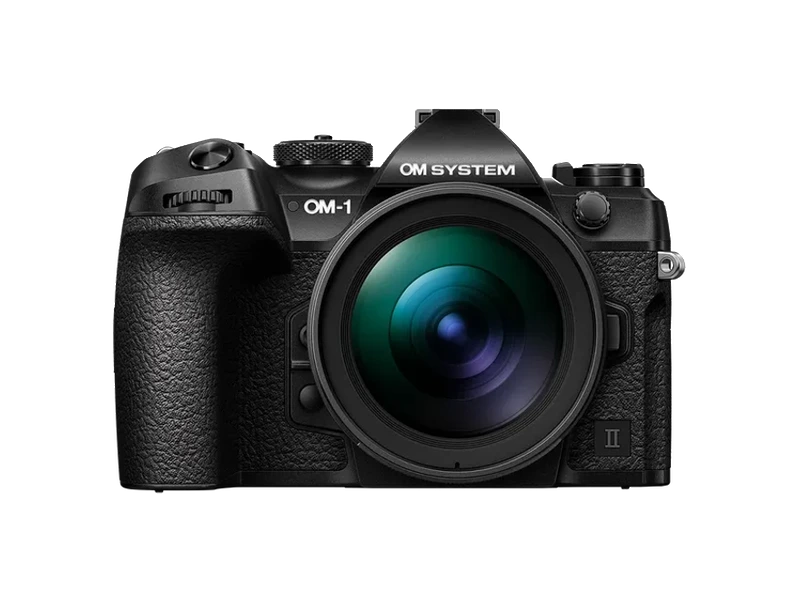
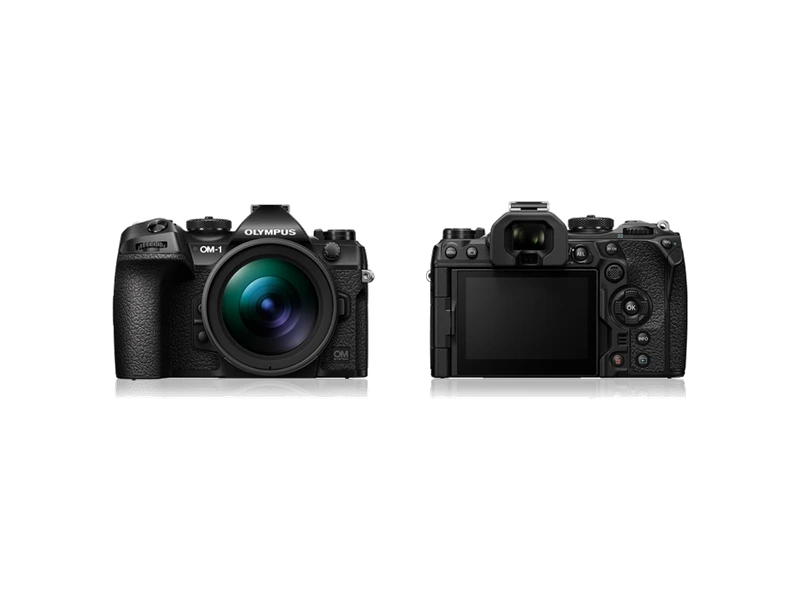
Replace camera guide placeholders with verified product photos

diff --git a/apps/web/src/styles/camera-guide.css b/apps/web/src/styles/camera-guide.css
@@ -95,11 +95,10 @@
 .camera-guide .cg-camera-card{min-width:0;border-bottom:1px solid var(--cg-line);display:flex;flex-direction:column}
 .camera-guide .cg-camera-display{position:relative;background:var(--cg-soft);border:1px solid var(--cg-line);border-radius:2px;overflow:hidden;aspect-ratio:4/3}
 .camera-guide .cg-product-image,.camera-guide .cg-product-image>img{width:100%;height:100%;display:block;object-fit:contain}
-.camera-guide .cg-product-fallback{display:flex;flex-direction:column;align-items:center;justify-content:center;height:100%;color:#898b83;padding:32px 10px 20px;gap:8px}
-.camera-guide .cg-product-fallback>span{font:400 19px var(--serif)}
-.camera-guide .cg-product-fallback svg{width:66%;height:auto;max-height:105px;opacity:.65}
-.camera-guide .cg-product-fallback small{font:10px var(--mono);letter-spacing:.05em}
-.camera-guide .cg-product-fallback small span{font:10px var(--sans)}
+.camera-guide .cg-product-image{position:relative}
+.camera-guide .cg-product-error{height:100%;display:flex;flex-direction:column;align-items:center;justify-content:center;gap:12px;color:var(--cg-muted);font:12px/1.6 var(--sans)}
+.camera-guide .cg-product-error button{padding:7px 12px;border:1px solid var(--cg-line);font:12px var(--sans);color:var(--ink)}
+.camera-guide .cg-photo-model{position:absolute;bottom:10px;left:10px;right:10px;text-align:center;color:var(--cg-muted);font:10px/1.6 var(--sans)}
 .camera-guide .cg-condition-label,.camera-guide .cg-format-label{position:absolute;top:13px;font:10px/1.5 var(--sans);letter-spacing:.08em;padding:3px 7px;border:1px solid #b8b9b1;background:var(--cg-soft)}
 .camera-guide .cg-condition-label{left:13px;color:#35474a}
 .camera-guide .cg-condition-label.is-new{background:#344d51;color:#fff;border-color:#344d51}

diff --git a/apps/web/src/lib/camera-guide.ts b/apps/web/src/lib/camera-guide.ts
@@ -1,5 +1,15 @@
 export function setupCameraGuide(root:HTMLElement){
  const all=<T extends Element=HTMLElement>(selector:string)=>[...root.querySelectorAll<T>(selector)];
+ all<HTMLImageElement>('[data-camera-image]').forEach(img=>{
+  const wrapper=img.closest<HTMLElement>('[data-product-image]')!;
+  const message=wrapper.querySelector<HTMLElement>('[data-product-error]')!;
+  const retry=wrapper.querySelector<HTMLButtonElement>('[data-image-retry]')!;
+  const failed=()=>{img.hidden=true;message.hidden=false;retry.disabled=false;retry.textContent='重新加载照片'};
+  img.addEventListener('error',failed);
+  img.addEventListener('load',()=>{img.hidden=false;message.hidden=true;retry.disabled=false;retry.textContent='重新加载照片'});
+  retry.addEventListener('click',()=>{retry.disabled=true;retry.textContent='正在加载…';img.loading='eager';img.src=img.dataset.photoSrc+'&retry='+Date.now()});
+  if(img.complete&&img.naturalWidth===0)failed();
+ });
  const reduced=matchMedia('(prefers-reduced-motion: reduce)');
  function revealInStrip(item:HTMLElement,strip:HTMLElement){const left=item.getBoundingClientRect().left-strip.getBoundingClientRect().left;if(left<0)strip.scrollLeft+=left-8;else if(left+item.offsetWidth>strip.clientWidth)strip.scrollLeft+=left+item.offsetWidth-strip.clientWidth+8;}
  const sensorControls=all<HTMLElement>('[data-sensor]');

diff --git a/apps/web/src/data/guide01CameraData.ts b/apps/web/src/data/guide01CameraData.ts
@@ -3,7 +3,7 @@ export type BrandName = 'Sony'|'Canon'|'Nikon'|'Fujifilm'|'Panasonic'|'OM SYSTEM
 export type SensorFormat='1-inch'|'M43'|'APS-C'|'FullFrame'|'MediumFormat';
 export type BudgetTier='1k-3k'|'3k-5k'|'5k-8k'|'8k-12k'|'12k+';
 export interface CameraPlacement {budgetTier:BudgetTier;condition:'new'|'used';summary:string;caution:string}
-export interface CameraItem {id:string;brand:BrandName;name:string;alias?:string;sensor:SensorFormat;lensType:'fixed'|'interchangeable';bodyType:'mirrorless'|'dslr'|'compact';hasEVF:boolean;hasMechanicalShutter:boolean;image:string;placements:CameraPlacement[]}
+export interface CameraItem {id:string;brand:BrandName;name:string;alias?:string;sensor:SensorFormat;lensType:'fixed'|'interchangeable';bodyType:'mirrorless'|'dslr'|'compact';hasEVF:boolean;hasMechanicalShutter:boolean;image:string;depictedModel?:string;placements:CameraPlacement[]}
 export const guide=data;
 export const cameras=data.cameras as CameraItem[];
 export const sensorNames:Record<SensorFormat,string>={'1-inch':'1 英寸',M43:'M4/3','APS-C':'APS-C',FullFrame:'全画幅',MediumFormat:'中画幅'};

diff --git a/docs/camera-guide.md b/docs/camera-guide.md
@@ -9,7 +9,7 @@
 - apps/web/src/data/guide-data.json：画幅、品牌、题材、预算策略、验机方法、决策表和 74 条独立机型记录。
 - apps/web/src/data/guide01CameraData.ts：机型字段类型、中文画幅名与章节目录。
 - apps/web/src/pages/lab/guides/camera.astro：六章页面模板。
-- apps/web/src/components/guides/CameraImage.astro：官方产品图与线稿回退。
+- apps/web/src/components/guides/CameraImage.astro：本地真实产品照片、文件版本与缺图检查。
 - apps/web/src/lib/camera-guide.ts：画幅选择、题材切换、预算与 EVF 联动、阅读进度、目录跟随、验机保存。
 - apps/web/src/styles/camera-guide.css：所有选择器限定在 .camera-guide 内，不修改整站变量或首页样式。
 
@@ -17,9 +17,11 @@
 
 ## 图片
 
-本次接入 47 张品牌官方产品图，均为透明背景 800 × 600 WebP，单张不超过 80 KB。尽量采用官方正面或斜侧展示照；不伪造硬件视角。来源逐张记录于 docs/camera-image-sources.json。
+已配齐 74 条机型记录的真实产品照片，覆盖 96 个预算卡片位置。统一为 800 × 600 WebP，每张不超过 80 KB。优先采用品牌产品档案，LX10 与早期 Leica Q 分别补自 Broadway Camera 和 Leica Store Miami。来源逐张记录于 docs/camera-image-sources.json。图片保存在本站，不依赖外部图片加载。
 
-另有 27 个型号没有取得能确认型号的官方产品图，显示带品牌与画幅说明的线稿，不用相邻代产品替代。高预算的系列方向仍用对照表，不强行指定单一机身。图片不存在时构建自动使用线稿；图片网络加载失败也切回线稿。日后补入对应图片并重新构建即可。
+不再渲染线稿。图片文件缺失会令构建失败；网络加载失败提供重新加载按钮。图片地址带内容指纹，替换机身照片后不会继续显示旧缓存。OM-1 已更正为第一代机身。系列记录标注实际图示型号；佳能日版机身标注对应名称，避免把地区名称差异误认为不同代际。
+
+新增机型时必须同时提交对应产品图与来源记录，再执行生产构建。不要用相邻代机型代替缺图型号。
 
 ## 交互与内容核对
 
@@ -31,4 +33,4 @@
 
 ## 验证
 
-使用项目 build:production 与 Astro check。浏览器检查桌面与手机：锚点位置、横向目录、画幅 SVG、题材键盘切换、预算/成色/EVF 联动、空结果、图片失败回退、14 项勾选保存/恢复/重置、存储异常和原有镜头指南弹窗。截图与运行记录保存在当前工作区 work/camera-guide/。
+使用项目 build:production 与 Astro check。浏览器检查桌面与手机：锚点位置、横向目录、画幅 SVG、题材键盘切换、预算/成色/EVF 联动、空结果、全部机型图片加载与失败重试、14 项勾选保存/恢复/重置、存储异常和原有镜头指南弹窗。截图与运行记录保存在当前工作区 work/camera-guide/；本次配图验证位于 work/camera-images-complete/。
